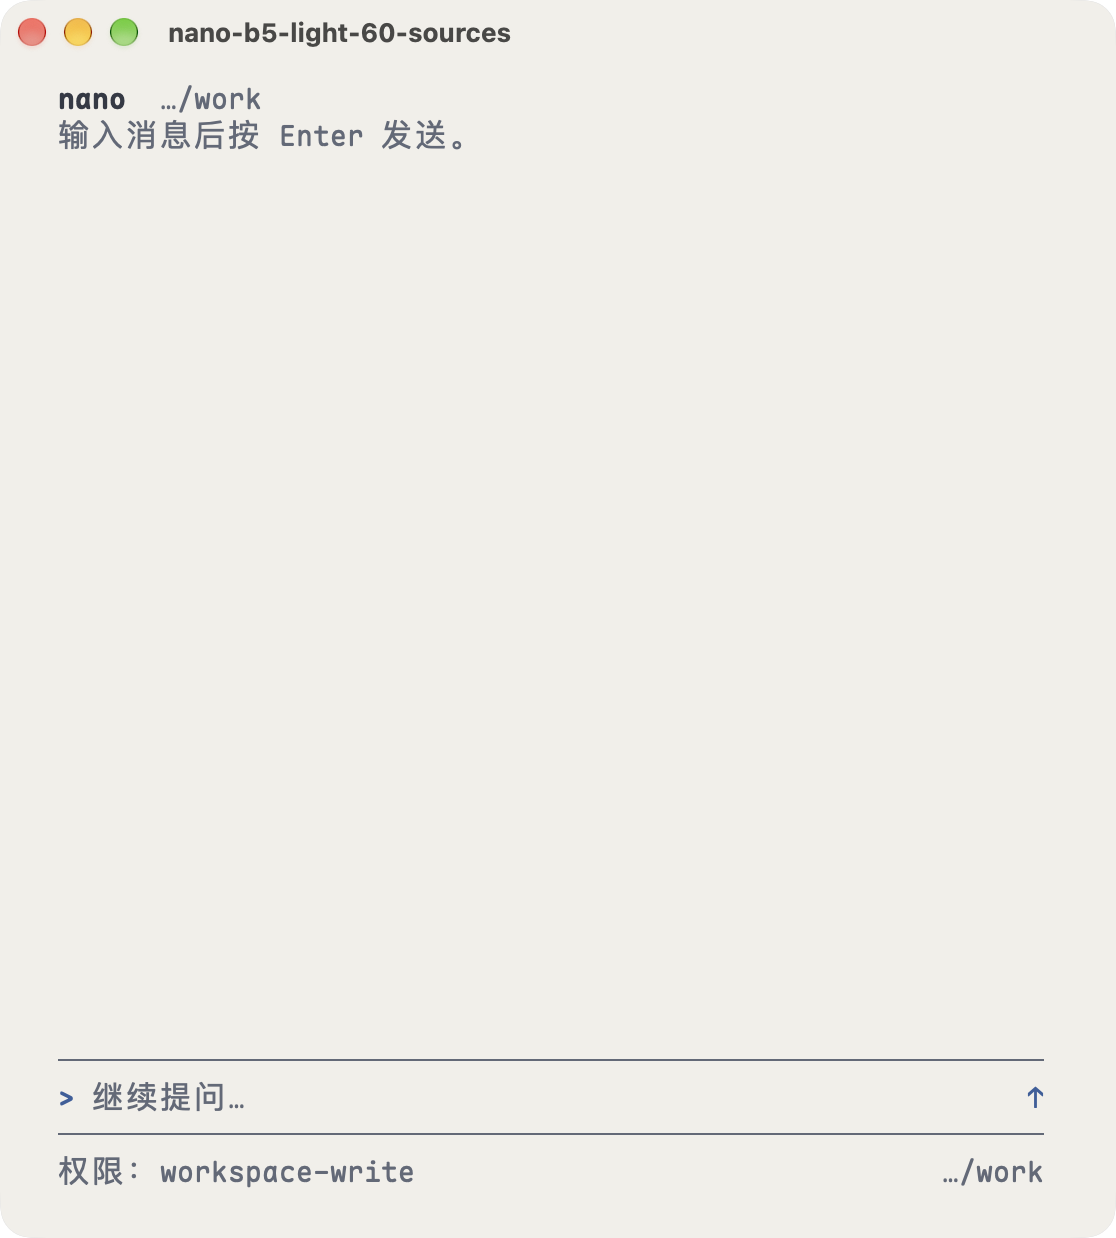
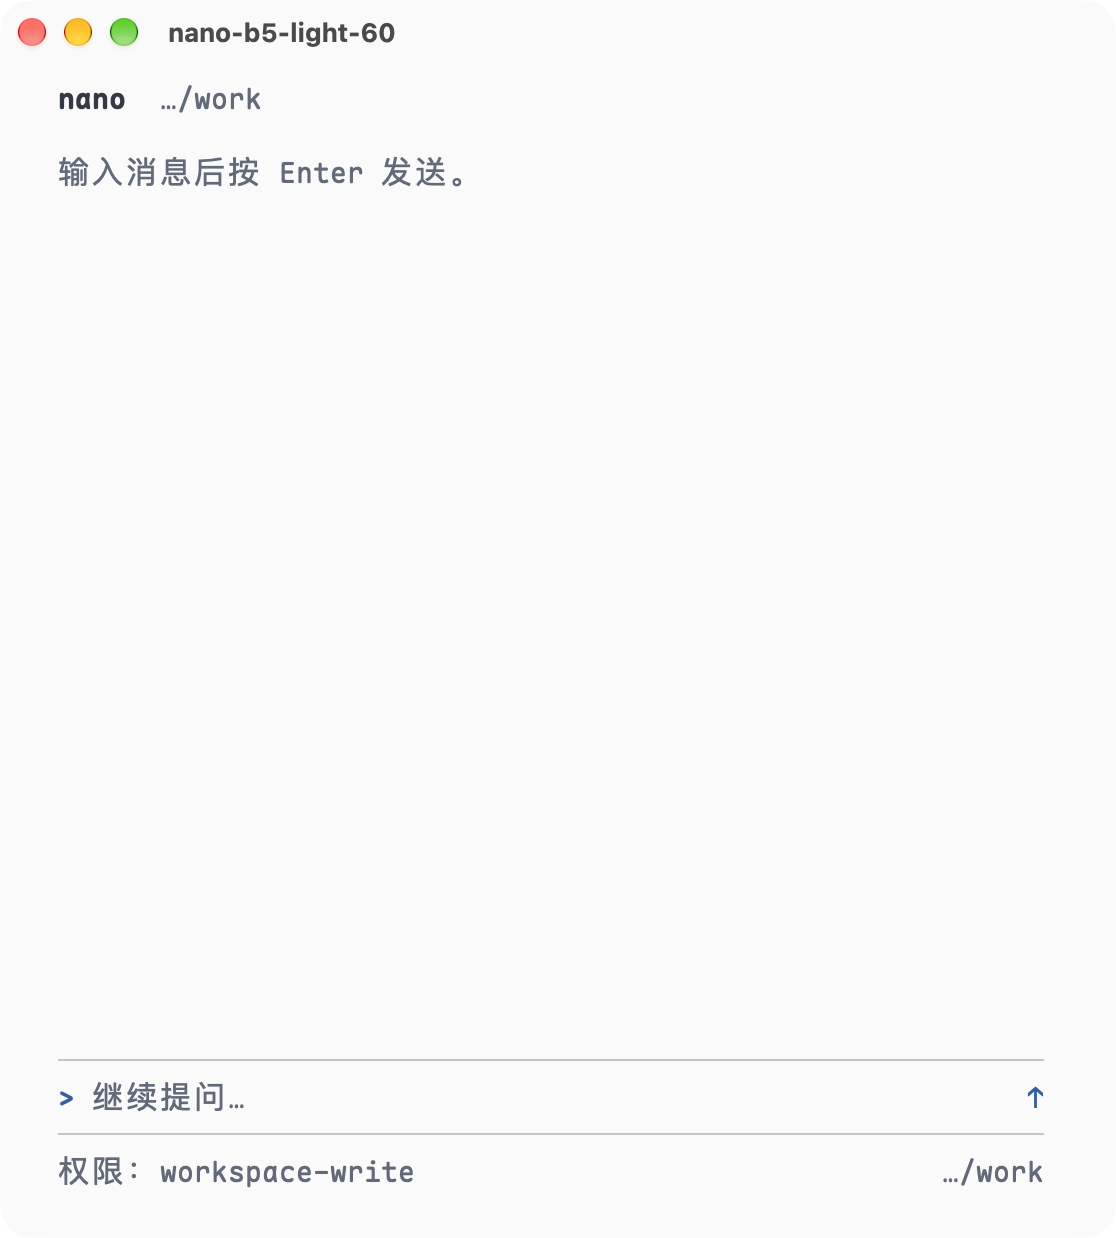
fix: 按共享主题重绘首启来源面板并重拍证据（#46）

Changed region(s): [[0.0305, 0.0921, 0.3961, 0.1535], [0.3656, 0.0, 0.457, 0.0307], [0.0609, 0.0, 0.1219, 0.0307]]

diff --git a/crates/nano-app/src/ui.rs b/crates/nano-app/src/ui.rs
@@ -1059,9 +1059,11 @@ fn draw_skill_preview(lines: &mut Vec<Line<'static>>, app: &App, width: usize) {
 /// and source label, and the official workspace-instruction paths. It never
 /// shows a credential value.
 fn draw_sources_panel(frame: &mut Frame, app: &App, area: Rect) {
+    let colors = app.theme.colors();
     let block = Block::default()
         .borders(Borders::ALL)
-        .title(Span::styled(" 来源 ", Style::default().fg(Color::Cyan)));
+        .border_style(app.theme.border_style())
+        .title(Span::styled(" 来源 ", Style::default().fg(colors.accent)));
     let inner = block.inner(area);
     frame.render_widget(block, area);
     if inner.height == 0 || inner.width == 0 {
@@ -1071,7 +1073,7 @@ fn draw_sources_panel(frame: &mut Frame, app: &App, area: Rect) {
     let mut lines: Vec<Line<'static>> = Vec::new();
     lines.push(Line::from(Span::styled(
         "本次启动实际使用的来源；凭据只显示引用与来源，不显示值。",
-        Style::default().fg(Color::DarkGray),
+        Style::default().fg(colors.muted),
     )));
     match app
         .provenance
@@ -1083,11 +1085,11 @@ fn draw_sources_panel(frame: &mut Frame, app: &App, area: Rect) {
                 "配置",
                 Style::default().add_modifier(Modifier::BOLD),
             )));
-            wrap_block(&mut lines, &config.path, width, 4_096, Color::Reset);
+            wrap_block(&mut lines, &config.path, width, 4_096, colors.fg);
         }
         None => lines.push(Line::from(vec![
             Span::styled("配置  ", Style::default().add_modifier(Modifier::BOLD)),
-            Span::styled("宿主未报告", Style::default().fg(Color::Yellow)),
+            Span::styled("宿主未报告", Style::default().fg(colors.warning)),
         ])),
     }
     match app
@@ -1104,22 +1106,19 @@ fn draw_sources_panel(frame: &mut Frame, app: &App, area: Rect) {
             lines.push(Line::from(vec![
                 Span::styled("凭据  ", Style::default().add_modifier(Modifier::BOLD)),
                 Span::raw(credentials.reference.clone()),
-                Span::styled(format!(" · {state}"), Style::default().fg(Color::DarkGray)),
+                Span::styled(format!(" · {state}"), Style::default().fg(colors.muted)),
             ]));
         }
         None => lines.push(Line::from(vec![
             Span::styled("凭据  ", Style::default().add_modifier(Modifier::BOLD)),
-            Span::styled("宿主未报告", Style::default().fg(Color::Yellow)),
+            Span::styled("宿主未报告", Style::default().fg(colors.warning)),
         ])),
     }
     if app.instructions.available {
         lines.push(Line::from(vec![
             Span::styled("规矩  ", Style::default().add_modifier(Modifier::BOLD)),
             Span::raw(format!("{} 份", app.instructions.sources.len())),
-            Span::styled(
-                " · Alt+R 查看完整来源",
-                Style::default().fg(Color::DarkGray),
-            ),
+            Span::styled(" · Alt+R 查看完整来源", Style::default().fg(colors.muted)),
         ]));
         for source in app.instructions.sources.iter().take(4) {
             lines.push(Line::from(Span::styled(
@@ -1127,13 +1126,13 @@ fn draw_sources_panel(frame: &mut Frame, app: &App, area: Rect) {
                     &format!("  {} {}", source.action.label(), source.path),
                     width,
                 ),
-                Style::default().fg(Color::DarkGray),
+                Style::default().fg(colors.muted),
             )));
         }
         if app.instructions.sources.len() > 4 {
             lines.push(Line::from(Span::styled(
                 format!("  … 还有 {} 份", app.instructions.sources.len() - 4),
-                Style::default().fg(Color::DarkGray),
+                Style::default().fg(colors.muted),
             )));
         }
     } else if !app.instruction_candidates.is_empty() {
@@ -1147,13 +1146,13 @@ fn draw_sources_panel(frame: &mut Frame, app: &App, area: Rect) {
         for path in app.instruction_candidates.iter().take(4) {
             lines.push(Line::from(Span::styled(
                 truncate(&format!("  {path}"), width),
-                Style::default().fg(Color::DarkGray),
+                Style::default().fg(colors.muted),
             )));
         }
         if app.instruction_candidates.len() > 4 {
             lines.push(Line::from(Span::styled(
                 format!("  … 还有 {} 份", app.instruction_candidates.len() - 4),
-                Style::default().fg(Color::DarkGray),
+                Style::default().fg(colors.muted),
             )));
         }
     } else {
@@ -1161,13 +1160,13 @@ fn draw_sources_panel(frame: &mut Frame, app: &App, area: Rect) {
             Span::styled("规矩  ", Style::default().add_modifier(Modifier::BOLD)),
             Span::styled(
                 "尚未加载（未发现 AGENTS.md / CLAUDE.md）",
-                Style::default().fg(Color::Yellow),
+                Style::default().fg(colors.warning),
             ),
         ]));
     }
     lines.push(Line::from(Span::styled(
         "Enter / Esc 关闭",
-        Style::default().fg(Color::DarkGray),
+        Style::default().fg(colors.muted),
     )));
     frame.render_widget(Paragraph::new(Text::from(lines)), inner);
 }

diff --git a/crates/nano-app/src/app.rs b/crates/nano-app/src/app.rs
@@ -8057,7 +8057,6 @@ fn text_input_event(key: &KeyEvent) -> Option<InputEvent> {
     }
 }
 
-/// Whether the handshake reports one official capability as usable now.
 /// Existing instruction files that the official baseline will consider on the
 /// first request. This mirrors the default `agent-instructions` candidate set
 /// (user-global `AGENTS.md`, then the project chain) without reading content;
@@ -8132,6 +8131,7 @@ fn push_existing_file(candidates: &mut Vec<PathBuf>, path: PathBuf) {
     }
 }
 
+/// Whether the handshake reports one official capability as usable now.
 fn capability_supported(hello: &Hello, name: &str) -> bool {
     hello
         .capabilities

diff --git a/docs/evidence/2026-10-22-b5/README.md b/docs/evidence/2026-10-22-b5/README.md
@@ -1,10 +1,12 @@
 # B5 首启来源面板 · 真实终端证据
 
-- 日期：2026-10-22
-- 分支：`issue-46`
+- 日期：2026-10-25（按共享主题重拍）
+- 分支：`issue-46`（已 rebase 到当前 `main`）
 - 终端：Ghostty 1.3.1，macOS，默认字号；深色 100 列 × 35 行、浅色 60 列 × 30 行
+- 主题：面板使用 `NANO_THEME` 调色板（`accent` / `muted` / `warning` / `fg`）；深浅两套隔离 Ghostty 配置，不读取用户配置
 - 产物：本分支 `cargo build --release -p nano-app` 的 `target/release/nano`
-- 环境：合成 `HOME` / `DSH_HOME` / `NANO_DATA_ROOT` / workdir；启动环境设置假 `DEEPSEEK_API_KEY`，不读写用户真实凭据、会话或桌面
+- 测试：`cargo test --workspace` 全绿（647 通过）；桥接 273 通过 / 5 skip
+- 环境：合成 `HOME` / `DSH_HOME` / `NANO_DATA_ROOT` / workdir；启动环境设置假 `DEEPSEEK_API_KEY`，不读写用户真实凭据、会话或配置
 - 宿主：真实官方 `dsh 0.2.1-rc.2`；本面板出现在 `nano.hello` 之后，不产生模型请求
 
 ## 场景与步骤
@@ -14,6 +16,7 @@
 | `dark-100-sources.png` | 用合成环境安装 profile，`nano --no-install` 启动；workdir 预置 `AGENTS.md`，启动环境设置 `DEEPSEEK_API_KEY`；握手完成后截图 | 面板显示配置 patch 的实际路径、凭据引用 `DEEPSEEK_API_KEY` 与来源「启动环境」、已有规矩文件路径；不显示任何凭据值 |
 | `dark-100-sources-dismissed.png` | 在上图按 Enter | 面板关闭，回到正常主界面；输入区可继续使用 |
 | `light-60-sources.png` | 浅色主题、60 列窗口重复同一启动步骤 | 窄宽度下路径折行不溢出；来源内容一致 |
+| `light-60-sources-dismissed.png` | 在上图按 Enter | 浅色主题下关闭后回到正常主界面；输入区可继续使用 |
 
 ## 检查项
 
